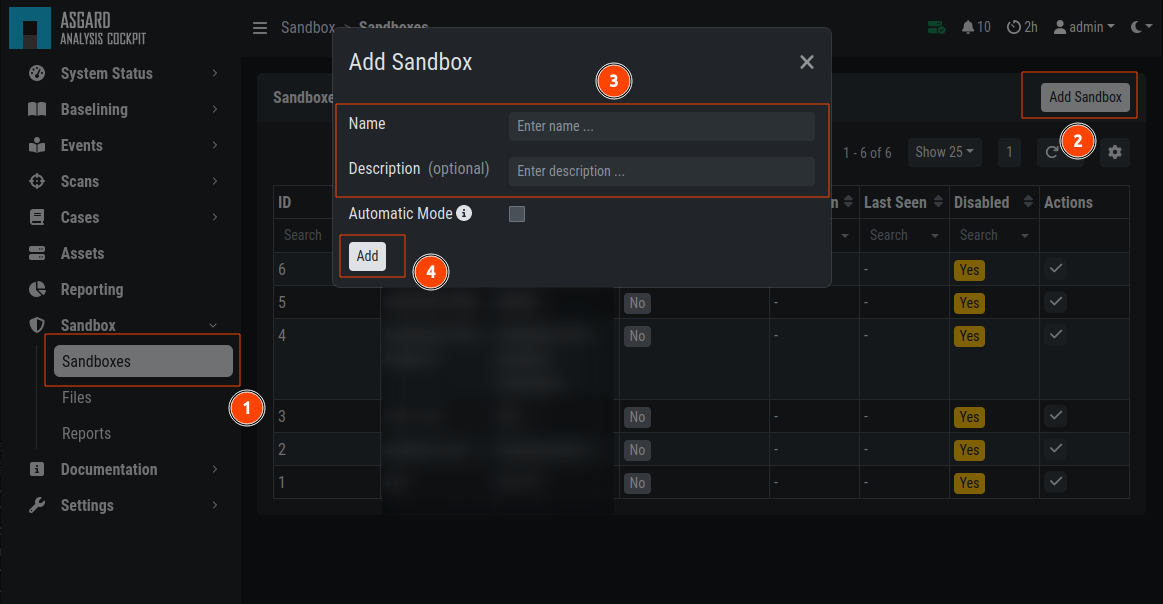
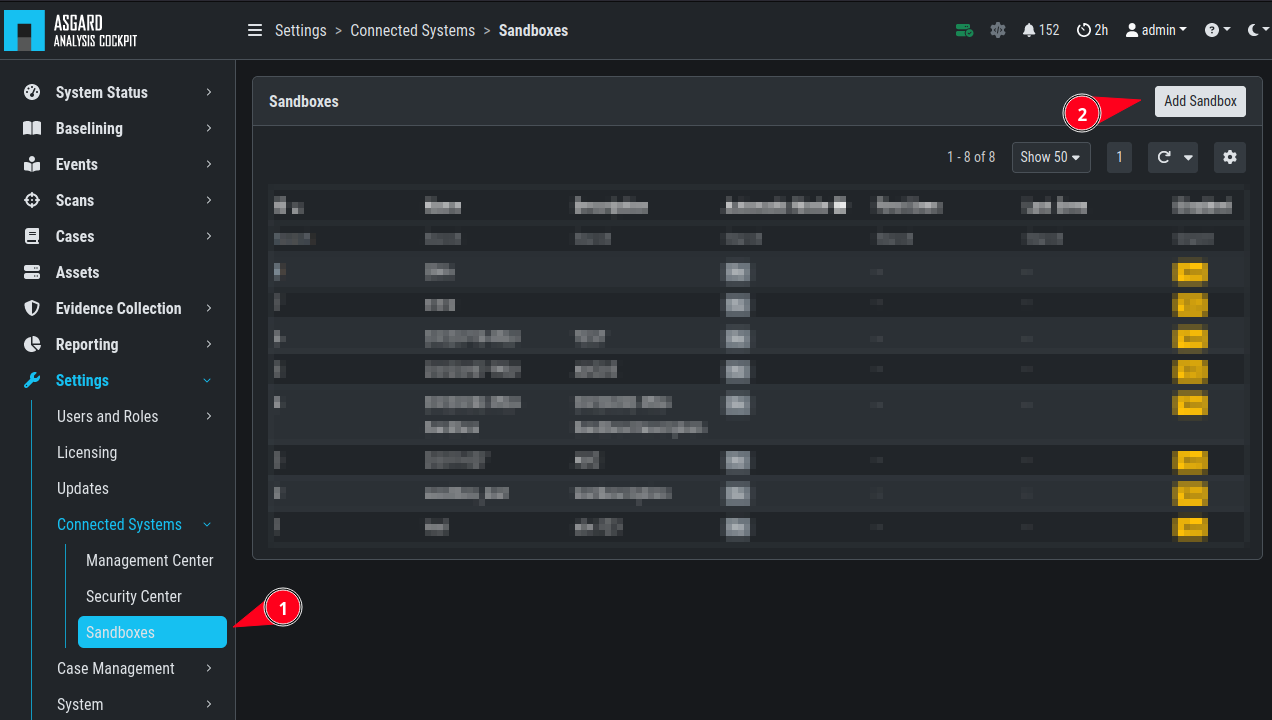
chore: update sandbox section

Changed region(s): [[0.0, 0.0, 1.0, 1.0], [0.3715, 0.7748, 0.4024, 0.8046]]

diff --git a/administration/sandbox.rst b/administration/sandbox.rst
@@ -21,9 +21,9 @@ your own connector, for a different sandbox, if you need to:
 Analysis Cockpit Sandbox Configuration
 ^^^^^^^^^^^^^^^^^^^^^^^^^^^^^^^^^^^^^^
 
-In the web view of your Analysis Cockpit, navigate to ``Sandbox`` > ``Sandboxes``.
-Click ``Add Sandbox`` in the top right corner. Keep the ``Name`` short and add a
-proper ``Description``.
+In the web view of your Analysis Cockpit, navigate to ``Settings`` > ``Connected
+Systems`` > ``Sandboxes``. Click ``Add Sandbox`` in the top right corner. Keep the
+``Name`` short and add a proper ``Description``.
 
 .. figure:: ../images/cockpit_add_sandbox.png
    :alt: Adding a new Sandbox
@@ -206,23 +206,20 @@ The connection to your sandbox should work now. You can see the ``capev2.log`` f
 Analysis Cockpit Sandbox Usage
 ^^^^^^^^^^^^^^^^^^^^^^^^^^^^^^
 
-Once your sandbox is set up and running, you can see the status of it in the sandbox view (Last Seen):
+Once your sandbox is set up and running, you can see the status of it in the
+sandbox view (Last Seen):
 
 .. figure:: ../images/cockpit_sandbox_view.png
    :alt: Sandbox View in the Analysis Cockpit
 
-In the ``Files`` view you can see previously analyzed files or upload files for analysis by yourself:
+In the ``Collected Evidences`` view you can see previously analyzed files or
+upload files for analysis by yourself:
 
-.. figure:: ../images/cockpit_sandbox_file_upload.png
+.. figure:: ../images/cockpit_evidence-file-upload.png
    :alt: File View in the Analysis Cockpit
 
-.. note:: 
-   If you did not enable ``auto mode`` of your configured sandbox, you have
-   to manually add the file for scanning in here. You can do this by pressing
-   the ``Scan file with sandbox`` button to the right of your file.
-
 After your file has been uploaded, you have to wait until your sandbox
-is finished with analyzing the file. Change to the ``Reports`` view
+is finished with analyzing the file. Change to the ``Sandbox Reports`` view
 to see the status of the files.
 
 .. figure:: ../images/cockpit_sandbox_reports.png
